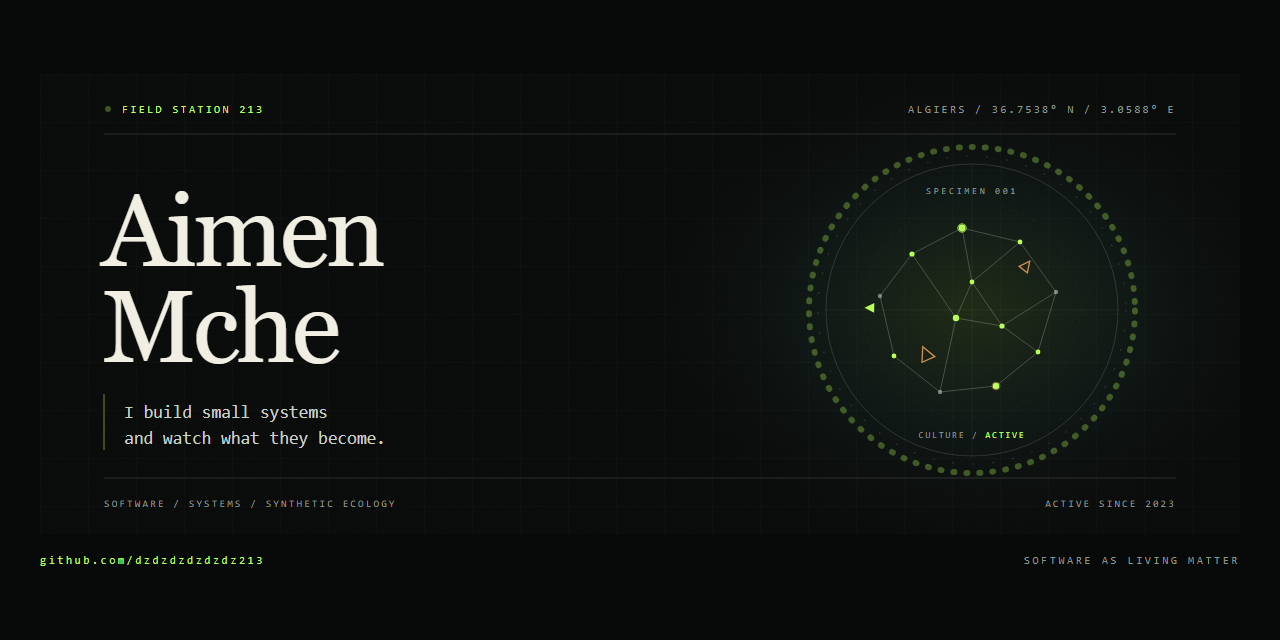
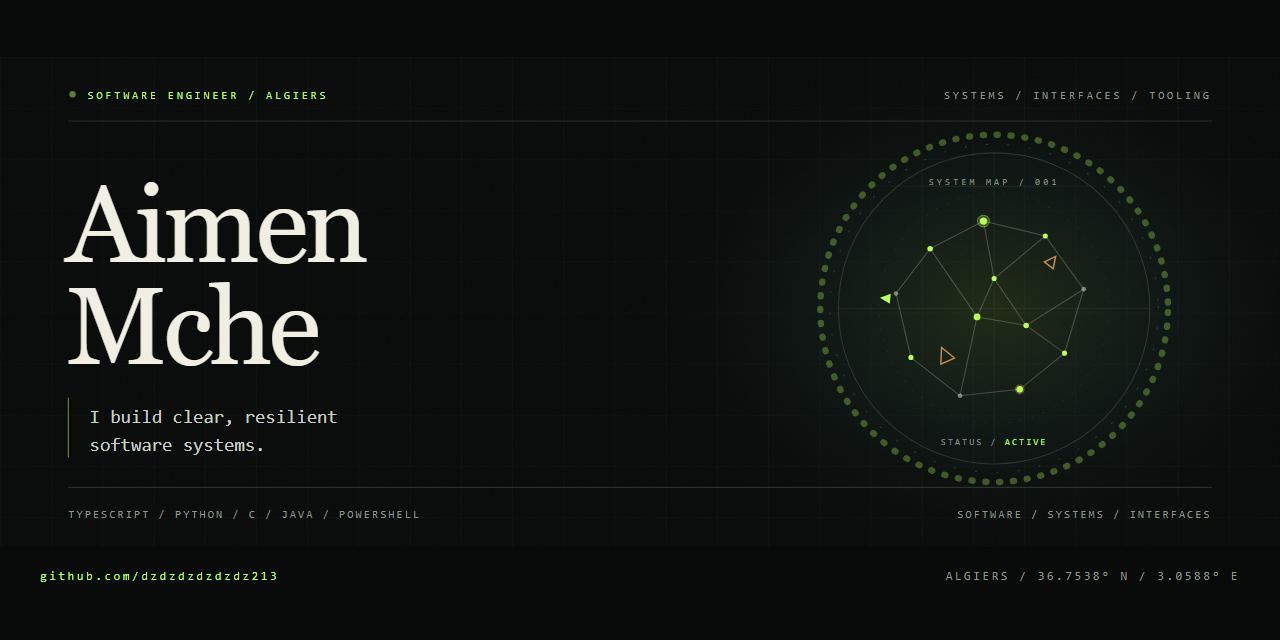
profile: rewrite README for a professional engineering audience

diff --git a/assets/social-preview.html b/assets/social-preview.html
@@ -16,13 +16,14 @@
     justify-content: center;
     font-family: "JetBrains Mono", "SFMono-Regular", Consolas, monospace;
   }
-  .plate { width: 1200px; display: block; }
+  .plate { width: 1280px; display: block; }
   .foot {
-    width: 1200px;
-    margin-top: 20px;
+    width: 1280px;
+    padding: 0 40px;
+    margin-top: 22px;
     display: flex;
     justify-content: space-between;
-    font-size: 11px;
+    font-size: 12px;
     letter-spacing: 2.6px;
     color: #8B968C;
   }
@@ -33,7 +34,7 @@
   <img class="plate" src="hero-dark.svg" alt="">
   <div class="foot">
     <span><strong>github.com/dzdzdzdzdzdz213</strong></span>
-    <span>SOFTWARE AS LIVING MATTER</span>
+    <span>ALGIERS / 36.7538° N / 3.0588° E</span>
   </div>
 </body>
 </html>

diff --git a/README.md b/README.md
@@ -3,67 +3,43 @@
   <source media="(max-width: 600px) and (prefers-color-scheme: light)" srcset="assets/hero-mobile-light.svg">
   <source media="(prefers-color-scheme: dark)" srcset="assets/hero-dark.svg">
   <source media="(prefers-color-scheme: light)" srcset="assets/hero-light.svg">
-  <img src="assets/hero-light.svg" alt="Aimen Mche — field notes from a self-observing system" width="100%">
+  <img src="assets/hero-light.svg" alt="Aimen Mche — software engineer based in Algiers" width="100%">
 </picture>
 
-I'm Aimen — a builder and observer from Algiers.
+## About
 
-I like systems that surprise you: the ones where a simple rule, followed honestly, turns into something you didn't plan. That's usually where I start.
+I'm a software engineer based in Algiers. I work across the stack — typed frontends, APIs, and systems tooling — with a focus on clear architecture, reliable behavior, and interfaces that stay out of the way.
 
-**Currently** — following a few questions further than is strictly reasonable.
+## Selected work
 
----
+| Project | What it does | Stack |
+|:--|:--|:--|
+| **[Nimbus](https://github.com/dzdzdzdzdzdz213/nimbus)** | A real-time system monitor that maps CPU, memory, and disk activity to a live weather simulation. | `PowerShell` |
+| **[Strata](https://github.com/dzdzdzdzdzdz213/strata)** | A filesystem visualization that renders directories as geological strata, revealing composition and age at a glance. | `PowerShell` |
+| **[Synesthesia](https://github.com/dzdzdzdzdzdz213/synesthesia)** | A cross-sensory system portrait that translates live metrics into color, rhythm, texture, and scent. | `PowerShell` |
+| **[Golem](https://github.com/dzdzdzdzdzdz213/golem)** | A boot-time journaling daemon that writes reflective entries from system logs, file activity, and network state. | `PowerShell` |
+| **[PassShield](https://github.com/dzdzdzdzdzdz213/passshield)** | A full-stack password security platform with breach detection, entropy scoring, secure generation, and an admin dashboard. | `TypeScript` · `Python` · `Flask` |
 
-## I / FIELD INDEX
+### In development
 
-<sub>SPECIMENS COLLECTED / 2023—2026</sub>
+**NEON** — a browser-based neuroevolution sandbox where organisms learn to forage through selection and mutation.<br>
+`HTML` · `JavaScript`
 
-| No. | Specimen | Observation |
-|:---:|:---|:---|
-| **01** | **[Nimbus](https://github.com/dzdzdzdzdzdz213/nimbus)**<br><sub>PowerShell</sub> | A weather engine for the inside of a computer. CPU becomes heat, memory becomes humidity, processes become wind. |
-| **02** | **[Strata](https://github.com/dzdzdzdzdzdz213/strata)**<br><sub>PowerShell</sub> | The filesystem read as geology — extensions turn to minerals, creation dates to eras, a directory becomes a core sample. |
-| **03** | **[Synesthesia](https://github.com/dzdzdzdzdzdz213/synesthesia)**<br><sub>PowerShell</sub> | One instant of system state translated into color, rhythm, texture, and scent. No two portraits repeat. |
-| **04** | **[Golem](https://github.com/dzdzdzdzdzdz213/golem)**<br><sub>PowerShell</sub> | A boot-time diary written from the machine's point of view. It dreams in errors and remembers what you touched. |
-| **05** | **[PassShield](https://github.com/dzdzdzdzdzdz213/passshield)**<br><sub>TypeScript / Flask</sub> | Password security with breach detection, entropy analysis, and an admin view of organizational risk. |
+## Technical stack
 
-<br>
+- **Languages:** TypeScript, JavaScript, Python, C, Java, PowerShell
+- **Frontend:** React, Next.js, Tailwind CSS
+- **Backend:** Node.js, Express, Flask, REST APIs
+- **Data:** PostgreSQL, MySQL, Supabase
+- **Tools:** Git, GitHub
 
-**IN THE WORKSHOP — NEON**<br>
-A neuroevolution terrarium: 8 sensors, 10 hidden neurons, 2 motors, and a population learning to eat. No backpropagation — only appetite, mutation, and time.<br>
-<sub>HTML / JAVASCRIPT · IN CULTURE</sub>
+## Contact
 
-<sub>ALSO IN THE DRAWER — [UnoGame](https://github.com/dzdzdzdzdzdz213/UnoGame) · [Flight-Reservation-Simulator](https://github.com/dzdzdzdzdzdz213/Flight-Reservation-Simulator) · [Menu](https://github.com/dzdzdzdzdzdz213/Menu)</sub>
-
----
-
-## II / INSTRUMENTS
-
-```text
-LANGUAGES    TypeScript · Python · C · Java · PowerShell
-SYSTEMS      React · Next.js · Node · Flask · PostgreSQL · Supabase
-PRACTICE     build small / observe closely / keep what survives
-```
-
----
-
-## III / FIELD NOTE
-
-> Every machine has a climate.  
-> Most people never check the weather.
->
-> <sub>— OBSERVED AT 03:41, ON A MACHINE THAT WAS STILL AWAKE</sub>
-
----
-
-## IV / SIGNAL
-
-If you're building something that behaves more like an ecosystem than a machine, I'd like to see it.
-
-[GitHub](https://github.com/dzdzdzdzdzdz213) &nbsp;·&nbsp; [Email](mailto:aimenmamache21@gmail.com) &nbsp;·&nbsp; [All specimens](https://github.com/dzdzdzdzdzdz213?tab=repositories)
+- **Email:** [aimenmamache21@gmail.com](mailto:aimenmamache21@gmail.com)
+- **GitHub:** [@dzdzdzdzdzdz213](https://github.com/dzdzdzdzdzdz213)
 
 <br>
 
 <div align="right">
-  <sub>OBSERVED FROM ALGIERS · 36.7538° N / 3.0588° E</sub><br>
-  <sub>THE SYSTEM IS AWAKE.</sub>
+  <sub>Based in Algiers, Algeria · 36.7538° N, 3.0588° E</sub>
 </div>
